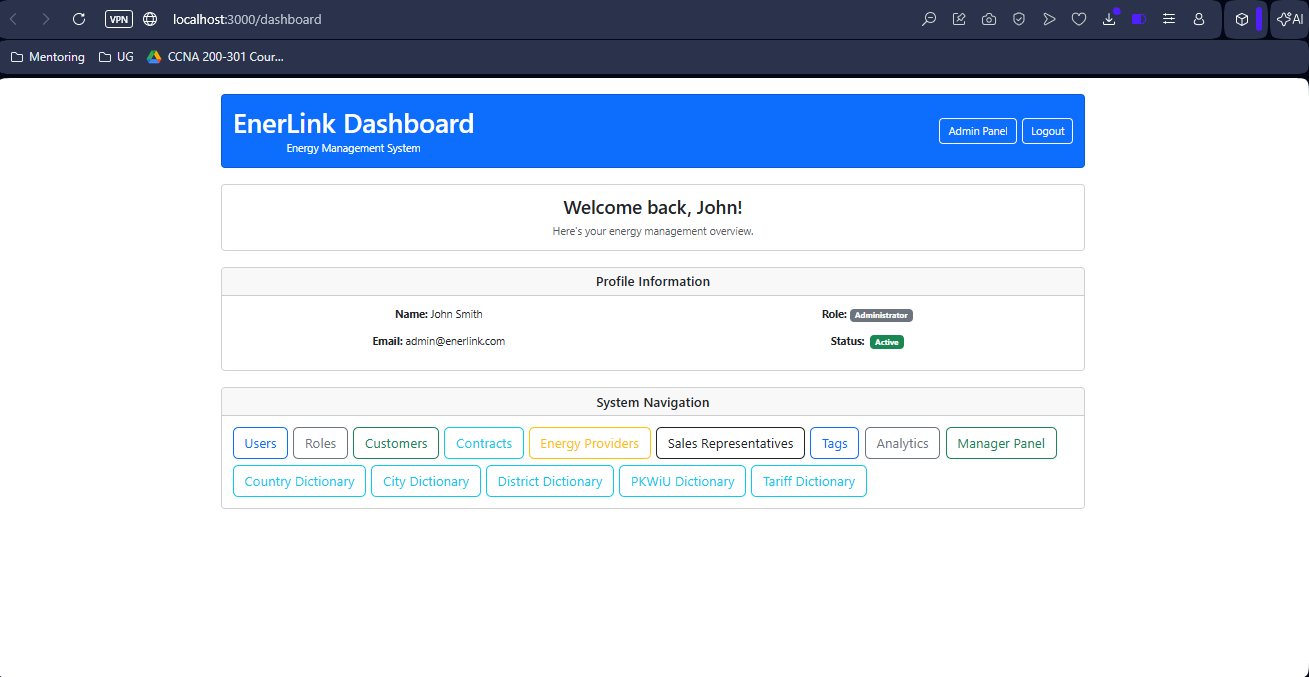
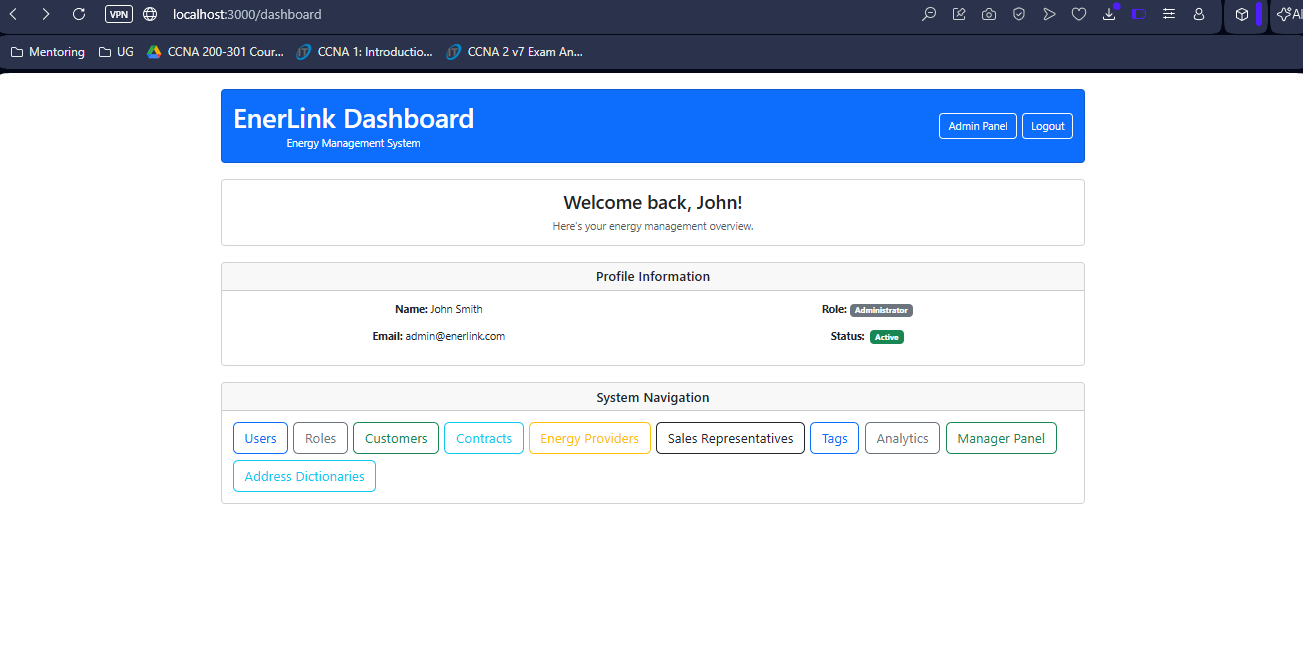
Update screenshots

diff --git a/documentation/screenshots.md b/documentation/screenshots.md
@@ -1,5 +1,8 @@
 # Screenshots
 
+## Login page
+![Login page](images/enerlink_screenshots/login_page.png)
+
 ## Main Dashboard
 ![Main dashboard](images/enerlink_screenshots/admin_dashboard.png)
 
@@ -45,17 +48,8 @@
 ### Manager Panel
 ![Manager Panel](images/enerlink_screenshots/manager_dashboard.png)
 
-### Countries
-![Countries](images/enerlink_screenshots/countries.png)
-
-### Cities
-![Cities](images/enerlink_screenshots/cities.png)
-
-### Districts
-![Districts](images/enerlink_screenshots/districts.png)
-
-### PKWIU List
-![PKWIU](images/enerlink_screenshots/pkwiu_list.png)
+### Address Dict
+![Address Dict](images/enerlink_screenshots/address_dict.png)
 
 ### Tariffs
 ![Tariffs](images/enerlink_screenshots/tariffs.png)

diff --git a/README.md b/README.md
@@ -176,6 +176,9 @@ The project uses pytest as the primary testing framework for backend unit and in
 
 All tests are located in the tests/ directory and cover the main REST API endpoints (addresses, contracts, customers, providers, roles, users, etc.).
 
+`Tests Results`
+![Tests Results](documentation/images/enerlink_screenshots/tests_result.png)
+
 ### Running Tests
 
 To run the full test suite:
